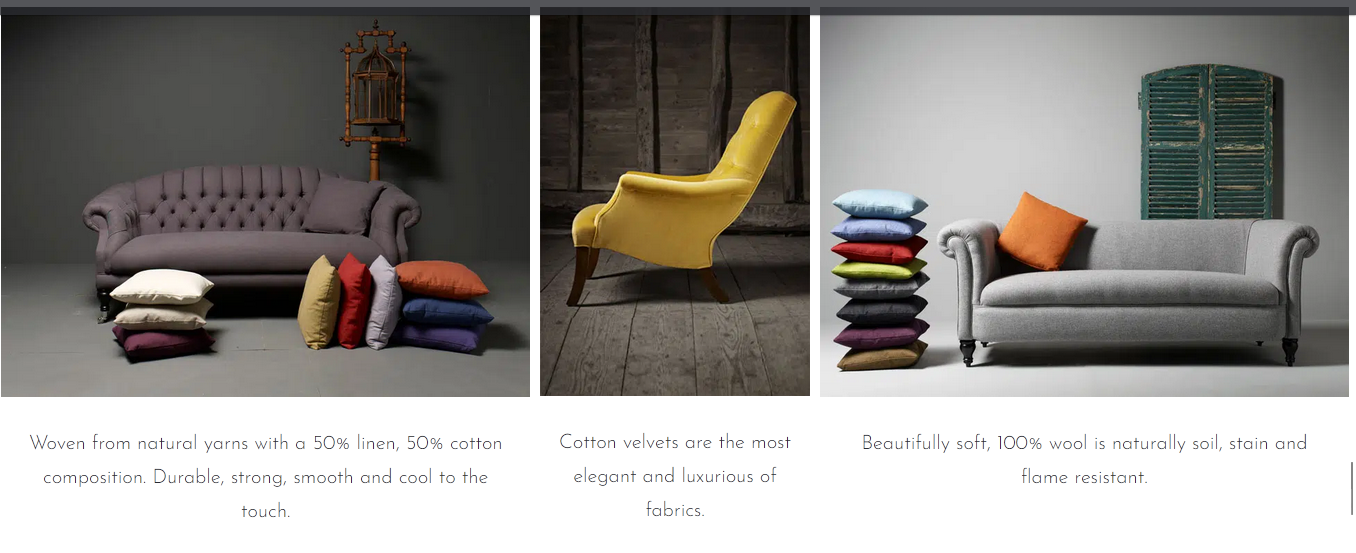
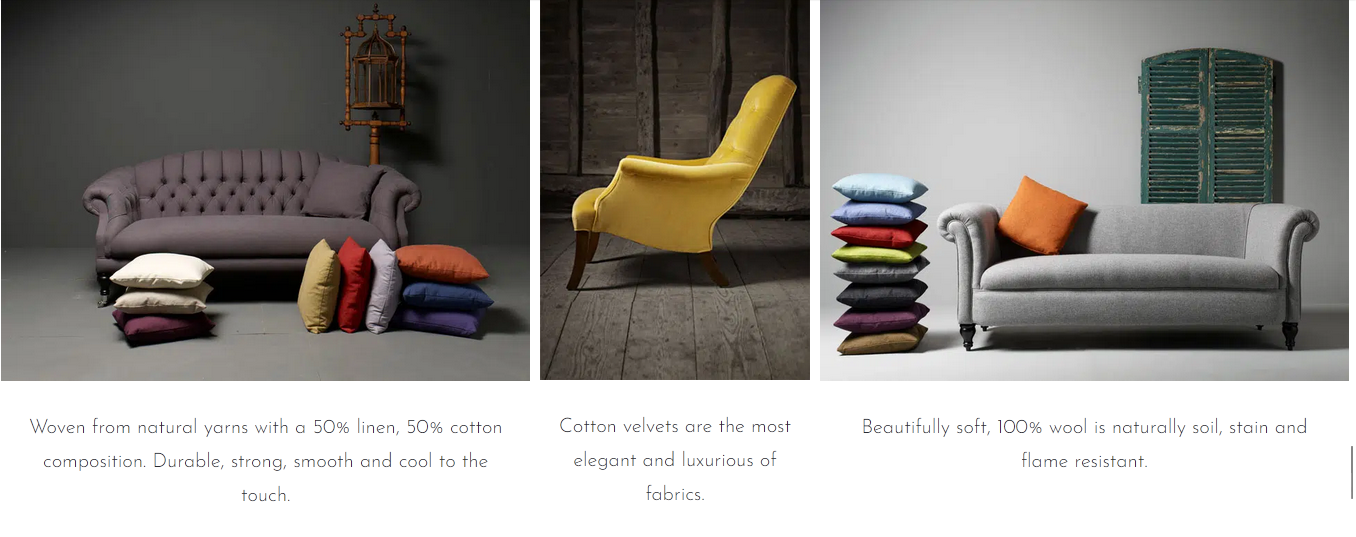
components complete

diff --git a/components/index.html b/components/index.html
@@ -13,8 +13,10 @@
 
 <body>
     <div class="page-title">
-    <h1> Web Design System - Fleming &amp; Howland</h1>
+        <h1> Web Design System - Fleming &amp; Howland</h1>
     </div>
+
+    <!--body copy-->
 
     <article id="body-copy" class="component">
         <h3 class="component-name">Body Copy</h3>
@@ -29,6 +31,9 @@
                 have been preserved since its origin in 1780.</p>
         </div>
     </article>
+
+    <!--headings-->
+
     <article id="headings" class="component">
         <h3 class="component-name">Headings, h1, h2, </h3>
         <div class="component-image">
@@ -43,6 +48,9 @@
             <h2>Collections</h2>
         </div>
     </article>
+
+    <!--button links-->
+
     <article id="Button" class="component">
         <h3 class="component-name">Button Links</h3>
         <div class="component-image">
@@ -127,7 +135,7 @@
     <!--Products Grid Section-->
 
     <article class="component">
-        <h3 class="component-name">Grid Section</h3>
+        <h3 class="component-name">Products Grid Section</h3>
         <div class="component-image">
             <img src="img/collections section products.png" alt="products collection">
         </div>
@@ -180,6 +188,9 @@
             </div>
         </div>
     </article>
+
+    <!--Made in England Section-->
+
     <article class="component">
         <h3 class="component-name">image &amp; text section</h3>
         <div class="component-image">
@@ -224,6 +235,35 @@
         </div>
     </article>
 
+    <!--Fabric Flex Section-->
+
+    <article class="component">
+        <h3 class="component-name">Fabric Flex Section</h3>
+        <div class="component-image">
+            <img src="./img/fabric section images.png" alt="fabrics collection">
+        </div>
+        <div class="component-code">
+            <p>Code:</p>
+            <div class="fabrics">
+                <div>
+                    <img src="./img/fabric-left-1.jpg" alt="Chesterfield Couch">
+                    <p class="fabrics-img-text">Woven from natural yarns with a 50% linen, 50% cotton composition.
+                        Durable, strong, smooth and cool to the touch.</p>
+                </div>
+                <div>
+                    <img src="./img/fabric-middle-1.jpg" alt="Chesterfield Couch">
+                    <p class="fabrics-img-text">Cotton velvets are the most elegant and luxurious of fabrics.</p>
+                </div>
+                <div>
+                    <img src="./img/fabric-right-1.jpg" alt="Chesterfield Couch">
+                    <p class="fabrics-img-text">Beautifully soft, 100% wool is naturally soil, stain and flame
+                        resistant.</p>
+                </div>
+            </div>
+        </div>
+
+    </article>
+
     <!--footer-->
 
     <article class="component">
@@ -244,8 +284,11 @@
                         starts
                         here...</p>
                 </div>
+
+                <!--footer input form-->
+
                 <div class="footer-input">
-                    <input type="text" placeholder="name"> <input type="text" placeholder="Email">
+                    <input type="text" placeholder="Name"> <input type="text" placeholder="Email">
                     <p class="link"><a class="submit-button" href="#!">submit</a></p>
                 </div>
                 <div class="footer-links">
@@ -316,7 +359,7 @@
                             <img class="footer-icon" src="./img/pinterest.svg" alt="pintrest icon">
                             <a target="_blank" href="https://www.pinterest.co.ok/fleminghowland/" title="Pintrest"></a>
 
-                            <img class="footer-icon" src="./img/instagram.svg" alt="instagram icon"></a>
+                            <img class="footer-icon" src="./img/instagram.svg" alt="instagram icon">
                             <a target="_blank" href="https://www.youtube.com/@fleminghowland/" title="Instagram"></a>
 
                             <img class="footer-icon" src="./img/youtube-icon-1.svg" alt="youtube icon">

diff --git a/css/style.css b/css/style.css
@@ -50,6 +50,7 @@ body {
 
 
 /*main heading*/
+
 h1 {
     font-family: var(--font-sans-serif);
     font-weight: 400;
@@ -61,6 +62,7 @@ h1 {
 }
 
 /*section headings*/
+
 h2 {
     font-family: var(--font-sans-serif);
     font-weight: 400;
@@ -89,7 +91,7 @@ h4 {
     color: var(--white);
     text-transform: uppercase;
     text-align: left;
-    letter-spacing: 2px;
+    letter-spacing: 0px;
     margin-bottom: 2px;
 }
 
@@ -232,7 +234,7 @@ nav a {
     height: 100%;
 }
 
-/*Grid Section*/
+/*Products Grid Section*/
 
 .collections-grid {
     display: grid;
@@ -267,6 +269,27 @@ nav a {
     max-width: 100%;
 }
 
+/*fabrics flex section*/
+
+.fabrics {
+    display: flex;
+    flex-direction: row;
+    justify-content: space-between;
+    align-items: flex-start;
+    gap: 10px;    
+    
+}
+
+.fabrics img {
+    height: 388px; 
+    width: auto; 
+}
+
+.fabrics p {
+    text-align: center;
+    width: 95%;
+    padding: 2px 5px 0px 15px;
+}
 
 /*footer section*/
 
@@ -275,15 +298,45 @@ nav a {
     color: var(--white);
 }
 
+/* input section */
+
 .footer-input {
     display: flex;
     flex-direction: row;
     justify-content: center;
     align-items: center;
-    gap: 50px;
+    gap: 30px;
     padding-top: 0px;
     padding-bottom: 30px;
 }
+
+input[type=text] {
+    width: 28%;
+    padding: 7px 10px;
+    margin: 8px 0;
+    box-sizing: border-box;
+    border: 1px solid var(--white);
+    background-color: var(--dark-gray);
+    color: var(--light-gray);
+    font-weight: 300;
+    font-size: 16px;
+}
+
+
+.submit-button {
+    border: 1px solid var(--dark-gray);
+    background-color: var(--gold);
+    color: var(--white);
+    padding: 10px 27px 10px 27px;
+    font-family: var(--font-sans-serif);
+    text-transform: uppercase;
+    text-align: center;
+    font-weight: 300;
+    font-size: 16px;
+    letter-spacing: 2px;
+}
+
+/*footer links */
 
 .footer-links {
     display: flex;
@@ -335,24 +388,19 @@ div.footer-pic {
     color: var(--white);
 }
 
-/*input section in footer*/
 
-.submit-button {
-    border: 1px solid var(--dark-gray);
-    background-color: var(--gold);
-    color: var(--white);
-    padding: 10px 27px 8px 27px;
-    font-family: var(--font-sans-serif);
-    text-transform: uppercase;
-    text-align: center;
-    font-weight: 300;
-    font-size: 16px;
-    letter-spacing: 2px;
-}
 
 /*social icons in footer*/
 
 .footer-icon {
     width: 25px;
     height: 25px;
+}
+
+img.footer-icon {
+    margin: 0px 4px 0px 4px;
+}
+
+p.copyright {
+    letter-spacing: 1px;
 }
